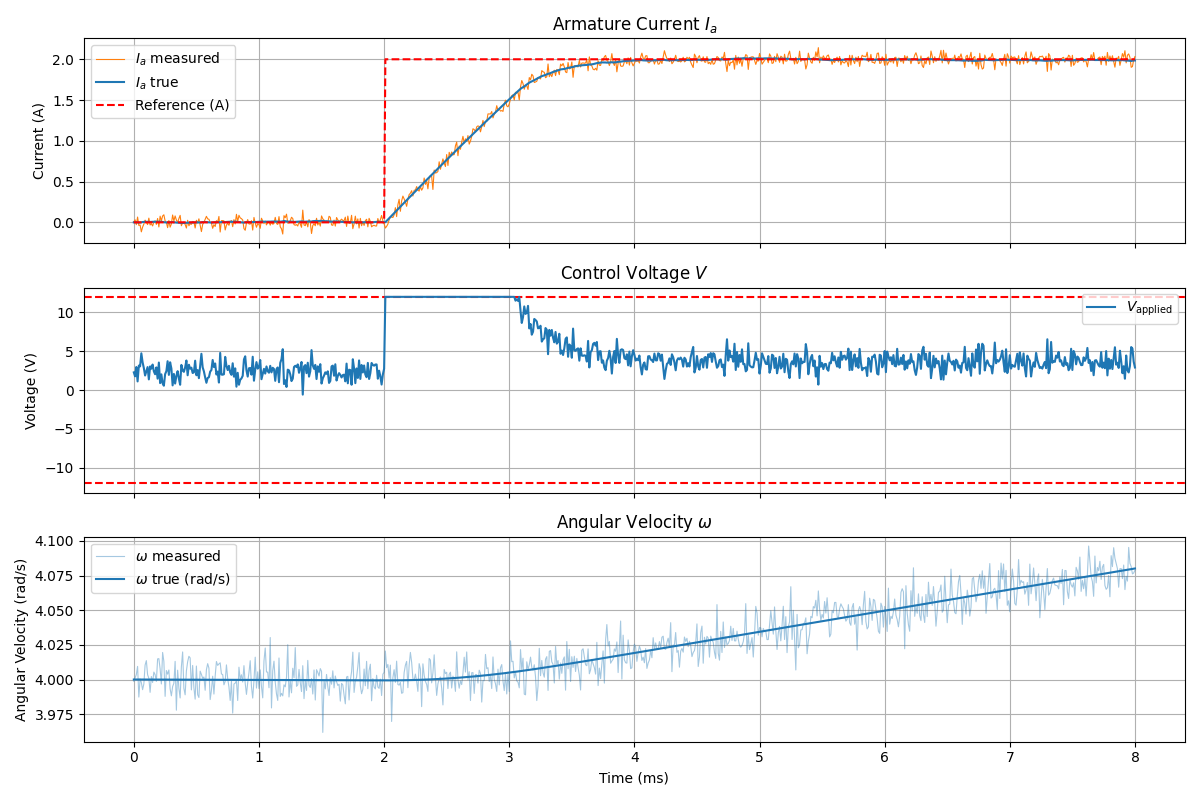
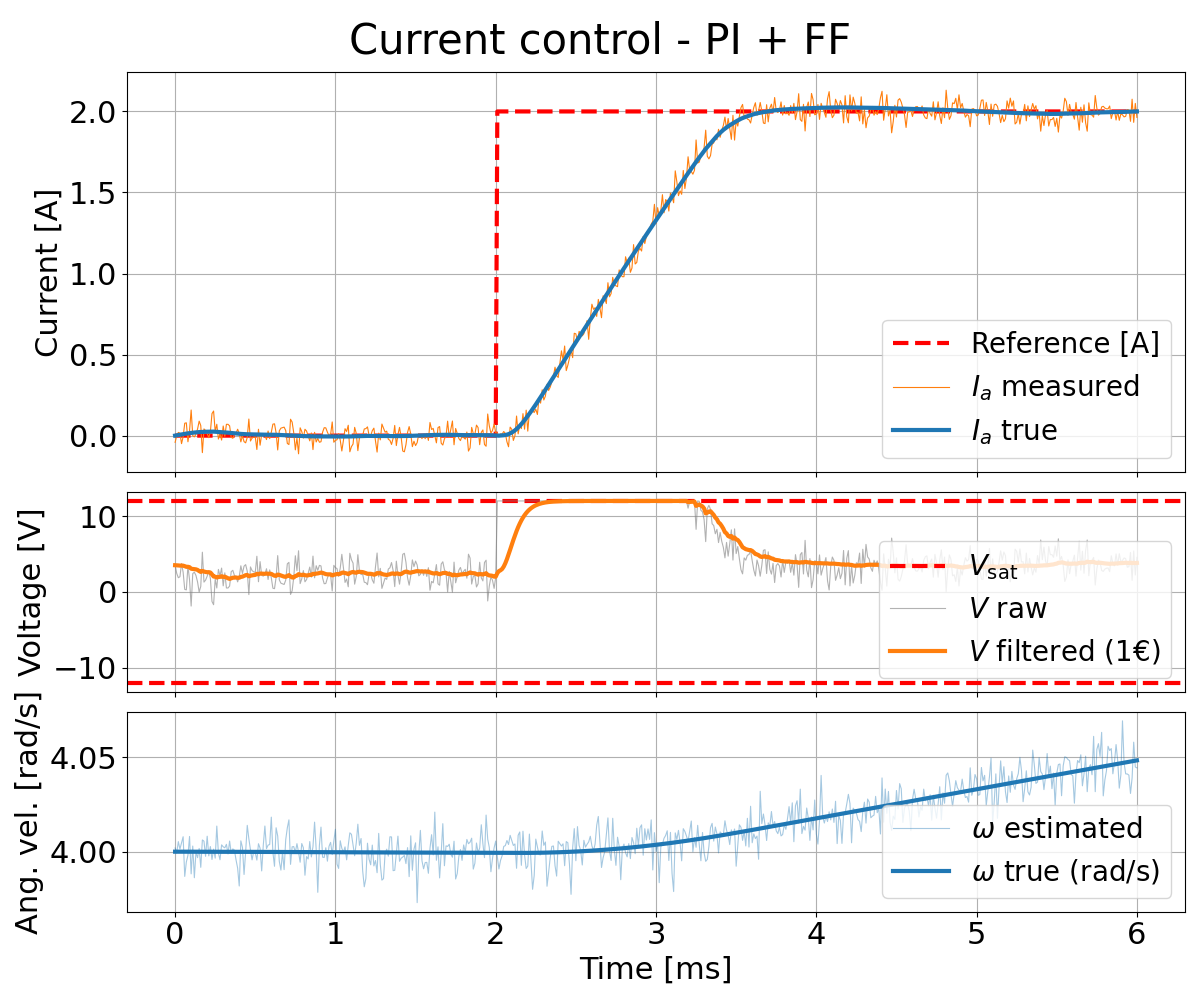
Updated current control to use standard second order model

diff --git a/adaptive_control/inertia_and_inductance_estimator_gradient_method.py b/adaptive_control/inertia_and_inductance_estimator_gradient_method.py
@@ -1,6 +1,7 @@
 import numpy as np
 from numpy import pi
 from scipy.integrate import solve_ivp
+from scipy.interpolate import interp1d
 import matplotlib.pyplot as plt
 import os
 from tqdm import tqdm
@@ -28,7 +29,7 @@ La = 0.006   # H      (true armature inductance – unknown to La estimator)
 
 # ─── PI-PD controller ────────────────────────────────────────────────────────
 Kp1, Ki, Kp2, Kd = 50.0, 3.0, 2.0, 5.0
-t0, r_max = 0.1, 5.0
+t0, r_max = 0.05, 5.0
 r = lambda t: r_max * (t > t0)   # step reference [rad]
 
 # ─── Inertia estimator (second-order filter Λ = (s+λ0)(s+λ1)) ───────────────
@@ -38,10 +39,10 @@ r = lambda t: r_max * (t > t0)   # step reference [rad]
 #   SPM: z = Jm · Φ
 #   dJm_est/dt = Γ_Jm · ε_Jm · Φ_Jm,   ε_Jm = z − Jm_est · Φ_Jm
 
-lambda0_jm  = 5.0
-lambda1_jm  = 10.0
+lambda0_jm  = 0.1
+lambda1_jm  = 0.1
 Gamma_jm    = 1000.0
-Jm_est_0    = 0.02    # initial estimate [kg·m²]
+Jm_est_0    = 0.01    # initial estimate [kg·m²]
 
 # ─── Inductance estimator (first-order filter γ = s+λ0) ─────────────────────
 # Electrical equation filtered by 1/γ:
@@ -55,12 +56,21 @@ Gamma_la    = 10.0
 La_est_0    = 0.001   # initial estimate [H]
 
 # ─── Simulation parameters ────────────────────────────────────────────────────
-T      = 0.45
+T      = 0.3
 t_eval = np.linspace(0, T, 10_000)
 
 save_folder = "adaptive_control/figures"
 filename    = "inertia_and_inductance_estimator_gradient_results.png"
 
+# ─── Measurement noise ────────────────────────────────────────────────────────
+MEASUREMENT_NOISE = False    # toggle on/off
+noise_std_theta   = 0.01    # rad  – angle measurement noise (std dev)
+noise_std_i_a     = 0.05    # A    – current measurement noise (std dev)
+
+
+# ─── Noise interpolators (set in __main__) ───────────────────────────────────
+_noise_theta_fn = None
+_noise_i_a_fn   = None
 
 # ─── Helper functions ─────────────────────────────────────────────────────────
 def voltage_clamp(V):
@@ -118,16 +128,24 @@ def dynamics(t, x):
     di_a   = (V - Ra * i_a - Kb * omega) / La
     de_int = theta_err
 
+    # ── Noisy measurements (used by estimators only) ───────────────────────────
+    if MEASUREMENT_NOISE and _noise_theta_fn is not None:
+        theta_meas = theta_angle + _noise_theta_fn(t)
+        i_a_meas   = i_a         + _noise_i_a_fn(t)
+    else:
+        theta_meas = theta_angle
+        i_a_meas   = i_a
+
     # ── Jm estimator filters (second-order Λ = (s+λ0_jm)(s+λ1_jm)) ──────────
-    df_ktia_0 = -lambda0_jm * f_ktia_0 + Kt * i_a
+    df_ktia_0 = -lambda0_jm * f_ktia_0 + Kt * i_a_meas
     df_ktia_1 = -lambda1_jm * f_ktia_1 + f_ktia_0
 
-    df_theta_0 = -lambda0_jm * f_theta_0 + theta_angle
+    df_theta_0 = -lambda0_jm * f_theta_0 + theta_meas
     df_theta_1 = -lambda1_jm * f_theta_1 + f_theta_0
 
     s_over_Lambda_theta  = f_theta_0 - lambda1_jm * f_theta_1
     s2_over_Lambda_theta = (
-        theta_angle
+        theta_meas
         - (lambda0_jm + lambda1_jm) * s_over_Lambda_theta
         - lambda0_jm * lambda1_jm * f_theta_1
     )
@@ -140,12 +158,12 @@ def dynamics(t, x):
 
     # ── La estimator filters (first-order γ = s+λ0_la) ───────────────────────
     df_la1 = -lambda0_la * f_la1 + V
-    df_la2 = -lambda0_la * f_la2 + Ra * i_a
-    df_la3 = -lambda0_la * f_la3 + Kb * theta_angle
-    df_la4 = -lambda0_la * f_la4 + i_a
+    df_la2 = -lambda0_la * f_la2 + Ra * i_a_meas
+    df_la3 = -lambda0_la * f_la3 + Kb * theta_meas
+    df_la4 = -lambda0_la * f_la4 + i_a_meas
 
-    z_la   = f_la1 - f_la2 - (Kb * theta_angle - lambda0_la * f_la3)
-    Phi_la = i_a - lambda0_la * f_la4
+    z_la   = f_la1 - f_la2 - (Kb * theta_meas - lambda0_la * f_la3)
+    Phi_la = i_a_meas - lambda0_la * f_la4
 
     eps_la  = z_la - La_est * Phi_la
     dLa_est = Gamma_la * eps_la * Phi_la
@@ -161,6 +179,18 @@ def dynamics(t, x):
 
 
 if __name__ == "__main__":
+    # ── Set up noise interpolators ────────────────────────────────────────────
+    if MEASUREMENT_NOISE:
+        rng = np.random.default_rng(seed=42)
+        _noise_theta_fn = interp1d(
+            t_eval, rng.normal(0, noise_std_theta, len(t_eval)),
+            kind='linear', fill_value='extrapolate'
+        )
+        _noise_i_a_fn = interp1d(
+            t_eval, rng.normal(0, noise_std_i_a, len(t_eval)),
+            kind='linear', fill_value='extrapolate'
+        )
+
     x0 = [
         0.0, 0.0, 0.0, 0.0,     # theta_angle, omega, i_a, e_int
         0.0, 0.0,               # f_ktia_0, f_ktia_1
@@ -199,12 +229,13 @@ if __name__ == "__main__":
 
     # Compute voltage signals for plotting
     V_ideal = control_law(theta_sol, r(t_eval) - theta_sol, omega_sol, e_int_sol)
+    t_ms = t_eval * 1e3   # convert to milliseconds for plotting
 
     # ─── Plot style parameters ────────────────────────────────────────────────
     TITLE_SIZE  = 30
-    LABEL_SIZE  = 18
-    TICK_SIZE   = 18
-    LEGEND_SIZE = 18
+    LABEL_SIZE  = 22
+    TICK_SIZE   = 22
+    LEGEND_SIZE = 20
     LINE_WIDTH  = 3
 
     # ─── Plots ────────────────────────────────────────────────────────────────
@@ -212,7 +243,7 @@ if __name__ == "__main__":
         if title:
             ax.set_title(title, fontsize=TITLE_SIZE, pad=15)
         if show_xlabel:
-            ax.set_xlabel('Time [s]', fontsize=LABEL_SIZE)
+            ax.set_xlabel('Time [ms]', fontsize=LABEL_SIZE)
         else:
             ax.set_xlabel('')
             ax.tick_params(axis='x', labelbottom=False)
@@ -228,8 +259,8 @@ if __name__ == "__main__":
     ax_jm = ax_la.twinx()
 
     ax_la.axhline(La * 1e3, color='tab:red', linestyle='--', label=f'$L_a$ = {La*1e3:.1f} mH\n$J_m$ = {Jm*1e3:.1f} ' + r'mkg·m²', linewidth=LINE_WIDTH)
-    ax_la.plot(t_eval, La_est_sol * 1e3,  color='tab:orange', label=r'$\hat{L}_a(t)$',  linewidth=LINE_WIDTH)
-    ax_jm.plot(t_eval, Jm_est_sol * 1e3,  color='tab:blue',   label=r'$\hat{J}_m(t)$',  linewidth=LINE_WIDTH)
+    ax_la.plot(t_ms, La_est_sol * 1e3,  color='tab:orange', label=r'$\hat{L}_a(t)$',  linewidth=LINE_WIDTH)
+    ax_jm.plot(t_ms, Jm_est_sol * 1e3,  color='tab:blue',   label=r'$\hat{J}_m(t)$',  linewidth=LINE_WIDTH)
     # ax_jm.axhline(Jm, color='tab:blue',   linestyle='--',     label=rf'$J_m$ = {Jm:.4f} kg·m²', linewidth=LINE_WIDTH)
 
     lines_jm, labels_jm = ax_jm.get_legend_handles_labels()
@@ -244,7 +275,7 @@ if __name__ == "__main__":
     ax_la.tick_params(axis='x', labelbottom=False)
 
     # ── Subplot 1: angle ──────────────────────────────────────────────────────
-    axes[1].plot(t_eval, theta_sol, color='tab:blue', label=r'$\theta(t)$ [rad]', linewidth=LINE_WIDTH)
+    axes[1].plot(t_ms, theta_sol, color='tab:blue', label=r'$\theta(t)$', linewidth=LINE_WIDTH)
     axes[1].legend(fontsize=LEGEND_SIZE, loc='lower right')
     setup_axis(axes[1], 'Angle [rad]')
 
@@ -252,8 +283,8 @@ if __name__ == "__main__":
     ax_v = axes[2]
     ax_i = ax_v.twinx()
 
-    ax_v.plot(t_eval, V_ideal, color='tab:orange', label='$V(t)$ [V]',    linewidth=LINE_WIDTH)
-    ax_i.plot(t_eval, i_a_sol, color='tab:blue',   label=r'$I_a(t)$ [A]', linewidth=LINE_WIDTH)
+    ax_v.plot(t_ms, V_ideal, color='tab:orange', label=r'$E_a(t)$',    linewidth=LINE_WIDTH)
+    ax_i.plot(t_ms, i_a_sol, color='tab:blue',   label=r'$I_a(t)$', linewidth=LINE_WIDTH)
 
     i_hi = max(i_a_sol) + 1.0
     v_hi = max(V_ideal)  + 1.0
@@ -275,4 +306,5 @@ if __name__ == "__main__":
     plt.tight_layout()
     os.makedirs(save_folder, exist_ok=True)
     plt.savefig(f"{save_folder}/{filename}", dpi=150)
+    plt.savefig(fr"C:\Users\Anders\OneDrive - NTNU\Fordypningsoppgave - Nsquared\specialization_project\Thesis\Figures\Modelling\{filename}", dpi=150)
     

diff --git a/adaptive_control/motor_current_control_feed_forward.py b/adaptive_control/motor_current_control_feed_forward.py
@@ -6,7 +6,7 @@ from tqdm import tqdm
 """
 Simulation parameters
 """
-T  = 8*10**-3       # Total simulation time (s)
+T  = 6*10**-3       # Total simulation time (s)
 fs = 100_000   # Sample rate (Hz)  – fixed step, fully transparent
 dt = 1.0 / fs
 N  = int(T * fs) + 1
@@ -39,17 +39,33 @@ Control law (2-DOF structure):
     - Kp2*ω - Kd*(Kt*i_a - Bm*ω)/Jm [PD feedback on output]
 """
 
-Kp = 20
-Ki = 800
+zeta = 0.5  # Damping ratio for PD feedback (zeta=1 → critical damping)
+wn = 27  # Natural frequency for PD feedback (rad/s) – higher → faster response but more noise sensitivity
 
+Kp = 2 * zeta * wn
+Ki = wn**2
+
+# Kp = 20
+# Ki = 800
+
+print(f"Kp = {Kp:.2f}, Ki = {Ki:.2f}")
 should_disable_feed_forward = False
+should_disable_noise = False
 
 t0 = 2*10**-3
 r_max = 2.0
 
 # Measurement noise standard deviations (set to 0 to disable)
 noise_std_Ia    = 0.05   # A
-noise_std_omega = 0.01    # rad/s
+noise_std_omega = 0.008    # rad/s
+if should_disable_noise:
+    noise_std_Ia = 0.0
+    noise_std_omega = 0.0
+
+# ─── One Euro Filter parameters (applied to control voltage) ─────────────────
+oef_min_cutoff = 100.0   # Hz  – lower → smoother but more lag
+oef_beta       = 5.0     # Hz/(V/s) – higher → less lag during fast changes
+oef_dcutoff    = 1.0     # Hz  – derivative low-pass cutoff
 
 r = lambda t: r_max * (t > t0)  # Step reference input (1 rad)
 
@@ -73,7 +89,7 @@ def control_law(i_a, omega, e_int, t):
     r_t = r(t)
     V = Kp * (r_t - i_a) + Ki * e_int
     if not should_disable_feed_forward:
-        V += Kb * omega
+        V += Kb * omega + Ra * i_a
     return voltage_clamp(V)
 
 
@@ -95,6 +111,34 @@ def rk4_step(x, V, dt):
     return x + (dt / 6.0) * (k1 + 2*k2 + 2*k3 + k4)
 
 
+class OneEuroFilter:
+    """Adaptive low-pass filter (Casiez et al., 2012)."""
+    def __init__(self, dt, min_cutoff=1.0, beta=0.0, dcutoff=1.0):
+        self.dt = dt
+        self.min_cutoff = min_cutoff
+        self.beta = beta
+        self.dcutoff = dcutoff
+        self._x_prev = None
+        self._dx_hat = 0.0
+
+    def _alpha(self, cutoff):
+        tau = 1.0 / (2.0 * np.pi * cutoff)
+        return 1.0 / (1.0 + tau / self.dt)
+
+    def __call__(self, x):
+        if self._x_prev is None:
+            self._x_prev = x
+            return x
+        dx = (x - self._x_prev) / self.dt
+        alpha_d = self._alpha(self.dcutoff)
+        self._dx_hat = alpha_d * dx + (1.0 - alpha_d) * self._dx_hat
+        cutoff = self.min_cutoff + self.beta * abs(self._dx_hat)
+        alpha = self._alpha(cutoff)
+        x_hat = alpha * x + (1.0 - alpha) * self._x_prev
+        self._x_prev = x_hat
+        return x_hat
+
+
 if __name__ == "__main__":
     # True (noiseless) states
     theta_arr      = np.zeros(N)
@@ -104,12 +148,14 @@ if __name__ == "__main__":
     # Noisy measurements seen by the controller
     omega_meas_arr = np.zeros(N)
     i_a_meas_arr   = np.zeros(N)
-    V_desired = np.zeros(N)   # unclamped controller output
-    V_applied = np.zeros(N)   # what the motor actually sees
+    V_desired   = np.zeros(N)   # unclamped controller output
+    V_applied   = np.zeros(N)   # clamped, before filter
+    V_filtered  = np.zeros(N)   # after One Euro Filter
 
-    x     = np.array([theta_0, omega_0, i_a_0])
-    e_int = 0.0
-    rng   = np.random.default_rng(seed=0)
+    x          = np.array([theta_0, omega_0, i_a_0])
+    e_int      = 0.0
+    rng        = np.random.default_rng(seed=52)
+    oef_V      = OneEuroFilter(dt, min_cutoff=oef_min_cutoff, beta=oef_beta, dcutoff=oef_dcutoff)
 
     for i in tqdm(range(N)):
         t = t_eval[i]
@@ -120,56 +166,68 @@ if __name__ == "__main__":
         omega_meas = omega_true + rng.normal(0.0, noise_std_omega)
 
         # Controller evaluated at noisy measurements
-        V_des = Kp * (r(t) - i_a_meas) + Ki * e_int + (Kb * omega_meas if not should_disable_feed_forward else 0.0)
-        V_app = voltage_clamp(V_des)                         # clamped
+        V_des  = Kp * (r(t) - i_a_meas) + Ki * e_int + (Kb * omega_meas if not should_disable_feed_forward else 0.0)
+        V_app  = voltage_clamp(V_des)          # clamped, before filter
+        V_filt = oef_V(V_app)                  # One Euro filtered voltage
 
         # Save true states
         theta_arr[i] = x[0]
         omega_arr[i] = omega_true
         i_a_arr[i]   = i_a_true
         e_int_arr[i] = e_int
-        # Save noisy measurements
+        # Save noisy measurements and voltages
         omega_meas_arr[i] = omega_meas
         i_a_meas_arr[i]   = i_a_meas
-        V_desired[i] = V_des
-        V_applied[i] = V_app
+        V_desired[i]  = V_des
+        V_applied[i]  = V_app
+        V_filtered[i] = V_filt
 
         if i < N - 1:
             # Integrate error using noisy measurement (forward Euler)
             e_int += (r(t) - i_a_meas) * dt
-            x = rk4_step(x, V_app, dt)
+            x = rk4_step(x, V_filt, dt)   # motor sees filtered voltage
 
     r_vals = r(t_eval)
     t_eval = t_eval * 1000
 
-    fig, axes = plt.subplots(3, 1, figsize=(12, 8), sharex=True)
+    TITLE_SIZE  = 30
+    LABEL_SIZE  = 22
+    TICK_SIZE   = 22
+    LEGEND_SIZE = 20
+    LINE_WIDTH  = 3
+    LINE_NOISE_WIDTH = 0.8
 
+    fig, axes = plt.subplots(3, 1, figsize=(12, 10), sharex=True, gridspec_kw={'height_ratios': [2, 1, 1]})
+    fig.suptitle('Current control - PI + FF', fontsize=TITLE_SIZE)
+
+    axes[0].plot(t_eval, r_vals, 'r--', linewidth=LINE_WIDTH, label='Reference [A]')
     axes[0].plot(t_eval, i_a_meas_arr, color='tab:orange', linewidth=0.8, label=r'$I_a$ measured')
-    axes[0].plot(t_eval, i_a_arr, color='tab:blue', label=r'$I_a$ true')
-    axes[0].plot(t_eval, r_vals, 'r--', label='Reference (A)')
-    axes[0].set_title('Armature Current $I_a$')
-    axes[0].set_ylabel('Current (A)')
-    axes[0].legend()
+    axes[0].plot(t_eval, i_a_arr, color='tab:blue', linewidth=LINE_WIDTH, label=r'$I_a$ true')
+    axes[0].set_ylabel('Current [A]', fontsize=LABEL_SIZE)
+    axes[0].tick_params(axis='both', labelsize=TICK_SIZE)
+    axes[0].legend(fontsize=LEGEND_SIZE, loc='lower right')
     axes[0].grid()
 
     # axes[1].plot(t_eval, V_desired, '--', label=r'$V_\mathrm{desired}$ (unclamped)')
-    axes[1].axhline( V_sat, color='red', linestyle='--')
-    axes[1].axhline(-V_sat, color='red', linestyle='--')
-    axes[1].plot(t_eval, V_applied, label=r'$V_\mathrm{applied}$')
-    axes[1].set_title(r'Control Voltage $V$')
-    axes[1].set_ylabel('Voltage (V)')
-    axes[1].legend()
+    axes[1].axhline( V_sat, color='red', linestyle='--', linewidth=LINE_WIDTH, label=r'$V_\mathrm{sat}$')
+    axes[1].axhline(-V_sat, color='red', linestyle='--', linewidth=LINE_WIDTH)
+    axes[1].plot(t_eval, V_applied,  color='tab:gray',   linewidth=LINE_NOISE_WIDTH, alpha=0.6, label=r'$V$ raw')
+    axes[1].plot(t_eval, V_filtered, color='tab:orange', linewidth=LINE_WIDTH,                  label=r'$V$ filtered (1€)')
+    axes[1].set_ylabel('Voltage [V]', fontsize=LABEL_SIZE)
+    axes[1].tick_params(axis='both', labelsize=TICK_SIZE)
+    axes[1].legend(fontsize=LEGEND_SIZE, loc='lower right')
     axes[1].grid()
 
-    axes[2].plot(t_eval, omega_meas_arr, color='C0', alpha=0.4, linewidth=0.8, label=r'$\omega$ measured')
-    axes[2].plot(t_eval, omega_arr, color='C0', label=r'$\omega$ true (rad/s)')
-    axes[2].set_title(r'Angular Velocity $\omega$')
-    axes[2].set_xlabel('Time (ms)')
-    axes[2].set_ylabel('Angular Velocity (rad/s)')
-    axes[2].legend()
+    axes[2].plot(t_eval, omega_meas_arr, color='C0', alpha=0.4, linewidth=LINE_NOISE_WIDTH, label=r'$\omega$ estimated')
+    axes[2].plot(t_eval, omega_arr, color='C0', linewidth=LINE_WIDTH, label=r'$\omega$ true (rad/s)')
+    axes[2].set_xlabel('Time [ms]', fontsize=LABEL_SIZE)
+    axes[2].set_ylabel(r'Ang. vel. [rad/s]', fontsize=LABEL_SIZE)
+    axes[2].tick_params(axis='both', labelsize=TICK_SIZE)
+    axes[2].legend(fontsize=LEGEND_SIZE, loc='lower right')
     axes[2].grid()
 
     plt.tight_layout()
     plt.savefig('motor_current_control_feed_forward_PI.png')
+    plt.savefig(r'C:\Users\Anders\OneDrive - NTNU\Fordypningsoppgave - Nsquared\specialization_project\Thesis\Figures\Adaptive_Controller\motor_current_control_feed_forward_PI.png')
 
 
